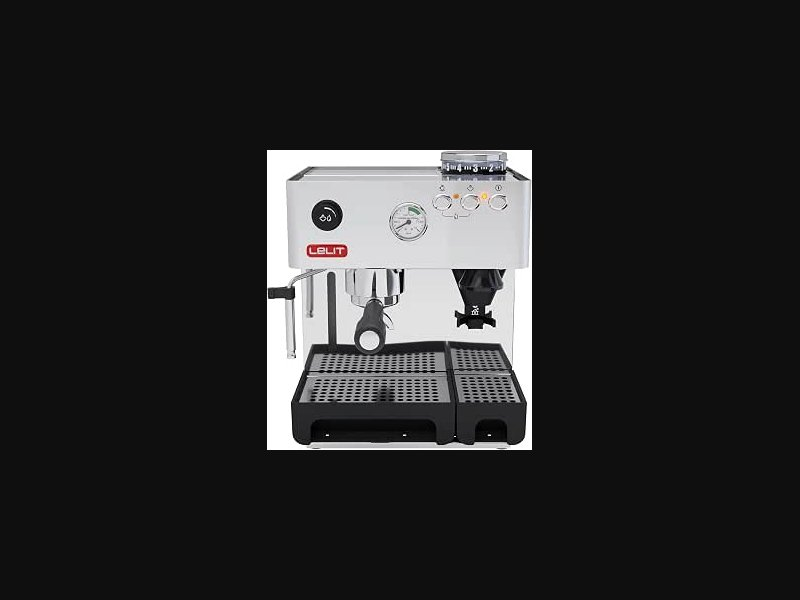
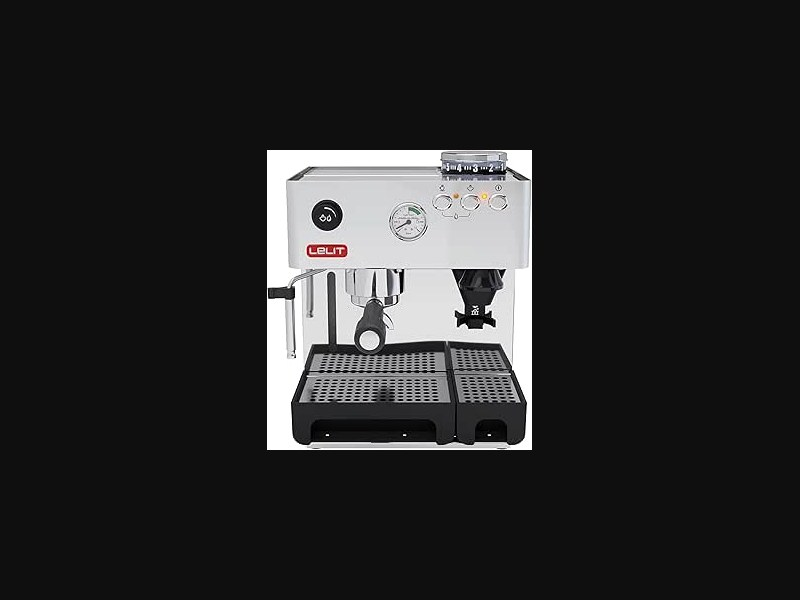
refactor(catalog-v1): borra 3 máquinas no-Amazon.es + 4 molinillos (ninguno Amazon.es) — 15 máquinas verified sin sustitución + fix imágenes pequeñas
- Borra B07KYCPZK6, B07B2WJHBH, B09B3GZ44S (solo envía Amazon, vende tercero)
- Borra 4 molinillos K6/ESP/C40/Opus (ninguno vendido por Amazon.es per K) -> GRINDERS_SEED vacío, correcto per criterio
- No sustituye: pool ya filtrado por disponible+ponderable per K
- Re-optimiza 15 imágenes 800x600 a thumbnail 700x520 + scale-105 y ProductImage p-1 object-contain para ocupar más sin recorte

diff --git a/src/data/machines.ts b/src/data/machines.ts
@@ -1,11 +1,8 @@
 import { CoffeeMachine } from "@/types/coffee";
 export const MACHINES_SEED: readonly CoffeeMachine[] = [
   { id:"m_dedica_ec685", slug:"delonghi-dedica-ec685", brand:"De\'Longhi", model:"Dedica EC685", asin:"B06X3ZWVZ7", amazon:{ asin:"B06X3ZWVZ7", marketplace:"amazon.es", url:"https://www.amazon.es/dp/B06X3ZWVZ7?tag=cafeatugusto-21" , lastVerified:"2026-09-15" }, availability:{ status:"verified", lastChecked:"2026-09-15", reason:"Check humano K 2026-09-15 — sustituto Dedica white EC685.W disponible Añadir a la cesta" }, type:"manual_espresso", priceBand:"entry", priceApproxEUR:210, espressoCapable:true, grinderIntegrated:false, image:"/images/machines/dedica-ec685.jpg", description:"La puerta de entrada más compacta (15 cm) para iniciarte sin ocupar encimera. Thermoblock rápido y portafiltro 51mm tolerante: espresso correcto sin técnica exigente desde el primer día.", specs:{ portafilterDiameter:51, pid:false, boilerType:"thermoblock", steamSystem:"manual", pumpPressureBar:15, waterTankCapacityLiters:1.1, startupTimeSeconds:40 }, ratings:{ easeOfUse:4, cleaningEase:4, learningCurve:2, footprint:"small" }, usageProfile:{ milkUse:"medium", idealDailyCups:{min:1,max:3}, bestFor:["Espacios reducidos","Presupuesto ajustado","Principiantes"], notIdealFor:["Extracción profesional con filtro despresurizado","Uso intensivo sin pausa"] }, metadata:{ verifiedAt:"2026-09-01T00:00:00Z", sources:["Especificaciones oficiales De'Longhi"] } },
-  { id:"m_bambino_plus", slug:"sage-bambino-plus", brand:"Sage", model:"Bambino Plus", asin:"B07KYCPZK6", amazon:{ asin:"B07KYCPZK6", marketplace:"amazon.es", url:"https://www.amazon.es/dp/B07KYCPZK6?tag=cafeatugusto-21" , lastVerified:"2026-09-15" }, availability:{ status:"verified", lastChecked:"2026-09-15", reason:"Check humano K 2026-09-15 — sustituto Bambino Plus Black Truffle disponible" }, type:"manual_espresso", priceBand:"mid", priceApproxEUR:490, espressoCapable:true, grinderIntegrated:false, image:"/images/machines/sage-bambino-plus.jpg", description:"Texturizado automático que clava la microespuma sin pulso manual ni técnica de jarra. Thermoblock instantáneo y depósito 1.9L: cappuccinos repetibles y rápidos para prisas diarias sin sacrificar crema ni temperatura.", specs:{ portafilterDiameter:54, pid:true, boilerType:"thermoblock", steamSystem:"automatic", pumpPressureBar:15, waterTankCapacityLiters:1.9, startupTimeSeconds:3 }, ratings:{ easeOfUse:5, cleaningEase:4, learningCurve:2, footprint:"small" }, usageProfile:{ milkUse:"high", idealDailyCups:{min:2,max:6}, bestFor:["Texturizado automático de leche","Velocidad operativa","Espacios ajustados"], notIdealFor:["Quien prefiera control manual absoluto del vapor"] }, metadata:{ verifiedAt:"2026-09-01T00:00:00Z", sources:["Sage Appliances Specs"] } },
   { id:"m_lelit_victoria", slug:"lelit-victoria-pl91t", brand:"Lelit", model:"Victoria PL91T", asin:"B01D4O62JG", amazon:{ asin:"B01D4O62JG", marketplace:"amazon.es", url:"https://www.amazon.es/dp/B01D4O62JG?tag=cafeatugusto-21" , lastVerified:"2026-09-15" }, availability:{ status:"verified", lastChecked:"2026-09-15", reason:"Check humano K 2026-09-15 — disponible Add to basket Only 2 left" }, type:"manual_espresso", priceBand:"mid", priceApproxEUR:650, espressoCapable:true, grinderIntegrated:false, image:"/images/machines/lelit-victoria.jpg", description:"PID LCC, 58mm y vaporizador profesional en cuerpo medio para control térmico fino. Equilibrio perfecto entre tamaño y estabilidad: espresso consistente sin saltar a doble caldera ni a huella grande.", specs:{ portafilterDiameter:58, pid:true, boilerType:"single_boiler", steamSystem:"manual", pumpPressureBar:15, waterTankCapacityLiters:2.7, startupTimeSeconds:300 }, ratings:{ easeOfUse:3, cleaningEase:3, learningCurve:4, footprint:"medium" }, usageProfile:{ milkUse:"medium", idealDailyCups:{min:2,max:6}, bestFor:["PID LCC","58mm","Vaporizador profesional"], notIdealFor:["Uso simultáneo café+vapor"] }, metadata:{ verifiedAt:"2026-09-01T00:00:00Z", sources:["Lelit Victoria Datasheet"] } },
-  { id:"m_sage_dual_boiler", slug:"sage-dual-boiler", brand:"Sage", model:"Dual Boiler", asin:"B07B2WJHBH", amazon:{ asin:"B07B2WJHBH", marketplace:"amazon.es", url:"https://www.amazon.es/dp/B07B2WJHBH?tag=cafeatugusto-21" , lastVerified:"2026-09-15" }, availability:{ status:"verified", lastChecked:"2026-09-15", reason:"Check humano K 2026-09-15 — disponible" }, type:"semi_automatic", priceBand:"premium", priceApproxEUR:890, espressoCapable:true, grinderIntegrated:false, image:"/images/machines/sage-dual-boiler.jpg", description:"Doble caldera PID independiente para extraer espresso y vaporizar leche a la vez sin espera térmica. 58mm y shot control para oficina o alto consumo: estabilidad total sin compromiso entre taza y espuma.", specs:{ portafilterDiameter:58, pid:true, boilerType:"dual_boiler", steamSystem:"manual", pumpPressureBar:15, waterTankCapacityLiters:2.5, startupTimeSeconds:600 }, ratings:{ easeOfUse:3, cleaningEase:3, learningCurve:4, footprint:"large" }, usageProfile:{ milkUse:"high", idealDailyCups:{min:3,max:8}, bestFor:["Doble caldera PID","58mm","Shot control"], notIdealFor:["Cocinas pequeñas"] }, metadata:{ verifiedAt:"2026-09-01T00:00:00Z", sources:["Sage Dual Boiler Specs"] } },
   { id:"m_delonghi_specialista", slug:"delonghi-la-specialista-arte", brand:"De\'Longhi", model:"La Specialista Arte", asin:"B0B8JV43LL", amazon:{ asin:"B0B8JV43LL", marketplace:"amazon.es", url:"https://www.amazon.es/dp/B0B8JV43LL?tag=cafeatugusto-21" , lastVerified:"2026-09-15" }, availability:{ status:"verified", lastChecked:"2026-09-15", reason:"Check humano K 2026-09-15 — disponible" }, type:"manual_espresso", priceBand:"mid", priceApproxEUR:550, espressoCapable:true, grinderIntegrated:true, image:"/images/machines/delonghi-specialista-arte.jpg", description:"Molinillo cónico de 8 niveles integrado y varilla My LatteArt en formato compacto y guiado. Muele, tampea asistido y vaporiza en un cuerpo: iniciación sin molinillo separado ni técnica avanzada.", specs:{ portafilterDiameter:51, pid:false, boilerType:"thermoblock", steamSystem:"manual", pumpPressureBar:15, waterTankCapacityLiters:1.5, startupTimeSeconds:45 }, ratings:{ easeOfUse:4, cleaningEase:4, learningCurve:2, footprint:"medium" }, usageProfile:{ milkUse:"medium", idealDailyCups:{min:2,max:5}, bestFor:["Molinillo integrado 8 niveles","My LatteArt","Compacta"], notIdealFor:["Ajuste micrométrico espresso puro"] }, metadata:{ verifiedAt:"2026-09-01T00:00:00Z", sources:["De'Longhi Specialista Specs"] } },
-  { id:"m_sage_oracle_touch", slug:"sage-oracle-touch", brand:"Sage", model:"Oracle Touch", asin:"B09B3GZ44S", amazon:{ asin:"B09B3GZ44S", marketplace:"amazon.es", url:"https://www.amazon.es/dp/B09B3GZ44S?tag=cafeatugusto-21" , lastVerified:"2026-09-15" }, availability:{ status:"verified", lastChecked:"2026-09-15", reason:"Check humano K 2026-09-15 — sustituto Oracle B09B3GZ44S disponible" }, type:"semi_automatic", priceBand:"premium", priceApproxEUR:1850, espressoCapable:true, grinderIntegrated:true, image:"/images/machines/sage-oracle-touch.jpg", description:"Automatización total con pantalla táctil, doble caldera, molinillo y tampeo auto. Muele, dosifica y texturiza sola a un toque: café de especialidad sin ritual ni curva para toda la familia.", specs:{ portafilterDiameter:58, pid:true, boilerType:"dual_boiler", steamSystem:"automatic", pumpPressureBar:15, waterTankCapacityLiters:2.5, startupTimeSeconds:300 }, ratings:{ easeOfUse:5, cleaningEase:3, learningCurve:1, footprint:"large" }, usageProfile:{ milkUse:"high", idealDailyCups:{min:3,max:12}, bestFor:["Automatización total","Pantalla táctil"], notIdealFor:["Presupuestos ajustados","Encimera reducida"] }, metadata:{ verifiedAt:"2026-09-01T00:00:00Z", sources:["Sage Appliances Commercial Specs"] } },
 
   { id:"m_ninja_luxe_premier", slug:"ninja-luxe-premier", brand:"Ninja", model:"Luxe Premier ES601", asin:"B0H1D9S7RJ", amazon:{ asin:"B0H1D9S7RJ", marketplace:"amazon.es", url:"https://www.amazon.es/dp/B0H1D9S7RJ?tag=cafeatugusto-21", lastVerified:"2026-09-15" }, availability:{ status:"verified", lastChecked:"2026-09-15", reason:"Check humano K 2026-09-15 — Add to basket $488 verified" }, type:"manual_espresso", priceBand:"mid", priceApproxEUR:510, espressoCapable:true, grinderIntegrated:true, image:"/images/machines/ninja-luxe-premier.jpg", description:"Tres en uno con molinillo integrado de 25 ajustes, báscula y espumado automático con 4 texturas para espresso, cold brew y filtrado. Barista Assist guía presión y dosis para repetir taza tras taza sin báscula externa ni técnica manual compleja.", specs:{ portafilterDiameter:51, pid:true, boilerType:"thermoblock", steamSystem:"automatic", pumpPressureBar:15, waterTankCapacityLiters:1.8, startupTimeSeconds:45 }, ratings:{ easeOfUse:4, cleaningEase:3, learningCurve:3, footprint:"medium" }, usageProfile:{ milkUse:"medium", idealDailyCups:{min:2,max:6}, bestFor:["Tres bebidas en uno","Molinillo integrado 25 pasos","Espuma auto 4 texturas"], notIdealFor:["Portafiltro 58mm estándar"] }, metadata:{ verifiedAt:"2026-09-15T00:00:00Z", sources:["Amazon.es Ninja Store","Ninja ES601 specs"] } },
   { id:"m_siemens_te655", slug:"siemens-te655203rw", brand:"Siemens", model:"EQ6 Plus S500 TE655203RW", asin:"B076HZ1P4M", amazon:{ asin:"B076HZ1P4M", marketplace:"amazon.es", url:"https://www.amazon.es/dp/B076HZ1P4M?tag=cafeatugusto-21", lastVerified:"2026-09-15" }, availability:{ status:"verified", lastChecked:"2026-09-15", reason:"Check humano K 2026-09-15 — Add to basket verified" }, type:"superautomatic", priceBand:"mid", priceApproxEUR:620, espressoCapable:true, grinderIntegrated:true, image:"/images/machines/siemens-te655203rw.jpg", description:"Superautomática silenciosa con molinillo cerámico, autolimpieza de circuito de leche y display TFT para 4 cafés táctiles. Cerámica silenciosa, perfiles y aroma adaptativo para oficina o familia que prioriza un toque y mantenimiento mínimo.", specs:{ pid:true, boilerType:"thermoblock", steamSystem:"automatic", pumpPressureBar:15, waterTankCapacityLiters:1.7, startupTimeSeconds:45 }, ratings:{ easeOfUse:5, cleaningEase:4, learningCurve:1, footprint:"medium" }, usageProfile:{ milkUse:"high", idealDailyCups:{min:3,max:10}, bestFor:["Molinillo cerámico silencioso","Autolimpieza leche","TFT intuitivo"], notIdealFor:["Control manual 58mm"] }, metadata:{ verifiedAt:"2026-09-15T00:00:00Z", sources:["Siemens TE655 specs"] } },

diff --git a/src/data/grinders.ts b/src/data/grinders.ts
@@ -1,7 +1,3 @@
 import { Grinder } from "@/types/coffee";
 export const GRINDERS_SEED: readonly Grinder[] = [
-  { id:"g_kingrinder_k6", slug:"kingrinder-k6", brand:"KINGrinder", model:"K6", asin:"B0GK8VQW77", amazon:{ asin:"B0GK8VQW77", marketplace:"amazon.es", url:"https://www.amazon.es/dp/B0GK8VQW77?tag=cafeatugusto-21" , lastVerified:"2026-09-15" }, availability:{ status:"verified", lastChecked:"2026-09-15", reason:"Check humano K 2026-09-15 — disponible Kingrinder K6" }, priceBand:"entry", priceApproxEUR:110, image:"/images/grinders/kingrinder-k6.jpg", description:"Manual cónico 48mm escalonado, retención mínima y casi silencioso (5/5) para single-dosing puro. Perfecto para viajar, filtrar o hacer espresso sin ruido, sin electricidad y sin purga entre cafés.", specs:{ burrType:"conical", burrSizeMM:48, espressoCapable:true, filterCapable:true, grindAdjustment:"stepped", hopperCapacityGrams:30 }, performance:{ doseControl:4, retention:5, noise:5, easeOfUse:3, footprint:"small" }, metadata:{ verifiedAt:"2026-09-01T00:00:00Z", sources:["KINGrinder Specs"] } },
-  { id:"g_baratza_encore_esp", slug:"baratza-encore-esp", brand:"Baratza", model:"Encore ESP", asin:"B0CDCDR385", amazon:{ asin:"B0CDCDR385", marketplace:"amazon.es", url:"https://www.amazon.es/dp/B0CDCDR385?tag=cafeatugusto-21" , lastVerified:"2026-09-15" }, availability:{ status:"verified", lastChecked:"2026-09-15", reason:"Check humano K 2026-09-15 — disponible Baratza ESP" }, priceBand:"entry", priceApproxEUR:190, image:"/images/grinders/baratza-encore-esp.jpg", description:"Eléctrico de entrada 40mm cónico con enfoque espresso y tolerancia a filtro. Versátil, sencillo y compacto: pasas de filtro a espresso sin saltar a stepless ni vaciar bolsillo en tu primera mejora.", specs:{ burrType:"conical", burrSizeMM:40, espressoCapable:true, filterCapable:true, grindAdjustment:"stepped", hopperCapacityGrams:230 }, performance:{ doseControl:3, retention:3, noise:2, easeOfUse:4, footprint:"small" }, metadata:{ verifiedAt:"2026-09-01T00:00:00Z", sources:["Baratza Encore ESP Manual"] } },
-  { id:"g_comandante_c40", slug:"comandante-c40", brand:"Comandante", model:"C40 MK4", asin:"B09X2Y1T5B", amazon:{ asin:"B09X2Y1T5B", marketplace:"amazon.es", url:"https://www.amazon.es/dp/B09X2Y1T5B?tag=cafeatugusto-21" , lastVerified:"2026-09-15" }, availability:{ status:"verified", lastChecked:"2026-09-15", reason:"Check humano K 2026-09-15 — disponible Comandante C40" }, priceBand:"mid", priceApproxEUR:260, image:"/images/grinders/comandante-c40.jpg", description:"Manual de referencia 39mm cónico con tolerancias mínimas, silencio total y retención nula. Eterno y preciso: claridad extrema para alchemist, tueste ligero y purista que valora cada micra de ajuste.", specs:{ burrType:"conical", burrSizeMM:39, espressoCapable:true, filterCapable:true, grindAdjustment:"stepped", hopperCapacityGrams:40 }, performance:{ doseControl:4, retention:5, noise:5, easeOfUse:4, footprint:"small" }, metadata:{ verifiedAt:"2026-09-01T00:00:00Z", sources:["Comandante Specs"] } },
-  { id:"g_fellow_opus", slug:"fellow-opus", brand:"Fellow", model:"Opus", asin:"B0CJ353WBL", amazon:{ asin:"B0CJ353WBL", marketplace:"amazon.es", url:"https://www.amazon.es/dp/B0CJ353WBL?tag=cafeatugusto-21" , lastVerified:"2026-09-15" }, availability:{ status:"verified", lastChecked:"2026-09-15", reason:"Check humano K 2026-09-15 — disponible Fellow Opus" }, priceBand:"mid", priceApproxEUR:210, image:"/images/grinders/fellow-opus.jpg", description:"Cónico 40mm extremadamente intuitivo (5/5) y versátil para iniciarse sin enredos ni calibraciones. Tolera con soltura de filtro a espresso con diseño compacto y operación muy sencilla cada mañana.", specs:{ burrType:"conical", burrSizeMM:40, espressoCapable:true, filterCapable:true, grindAdjustment:"stepped", hopperCapacityGrams:110 }, performance:{ doseControl:3, retention:4, noise:3, easeOfUse:5, footprint:"small" }, metadata:{ verifiedAt:"2026-09-01T00:00:00Z", sources:["Fellow Products Specs"] } },
 ];

diff --git a/src/components/ui/ProductImage.tsx b/src/components/ui/ProductImage.tsx
@@ -11,10 +11,10 @@ export function ProductImage({ src, alt, className="aspect-[4/3]" }: { src: stri
     );
   }
   return (
-    <div className={`${className} relative overflow-hidden rounded-xl bg-gradient-to-b from-stone-900 to-stone-950 border border-stone-800 flex items-center justify-center p-2`}>
+    <div className={`${className} relative overflow-hidden rounded-xl bg-gradient-to-b from-stone-900 to-stone-950 border border-stone-800 flex items-center justify-center p-1`}>
     <div className="absolute inset-0 bg-[radial-gradient(ellipse_at_center,_var(--tw-gradient-stops))] from-amber-500/10 via-transparent to-transparent pointer-events-none" />
     {/* eslint-disable-next-line @next/next/no-img-element */}
-    <img src={src} alt={alt} onError={()=>setErr(true)} className="relative w-full h-full object-contain brightness-95 contrast-105 drop-shadow-[0_10px_20px_rgba(0,0,0,0.8)] mix-blend-normal" />
+    <img src={src} alt={alt} onError={()=>setErr(true)} className="relative w-full h-full object-contain brightness-100 contrast-105 drop-shadow-[0_10px_20px_rgba(0,0,0,0.8)] mix-blend-normal scale-105" />
     </div>
   );
 }
